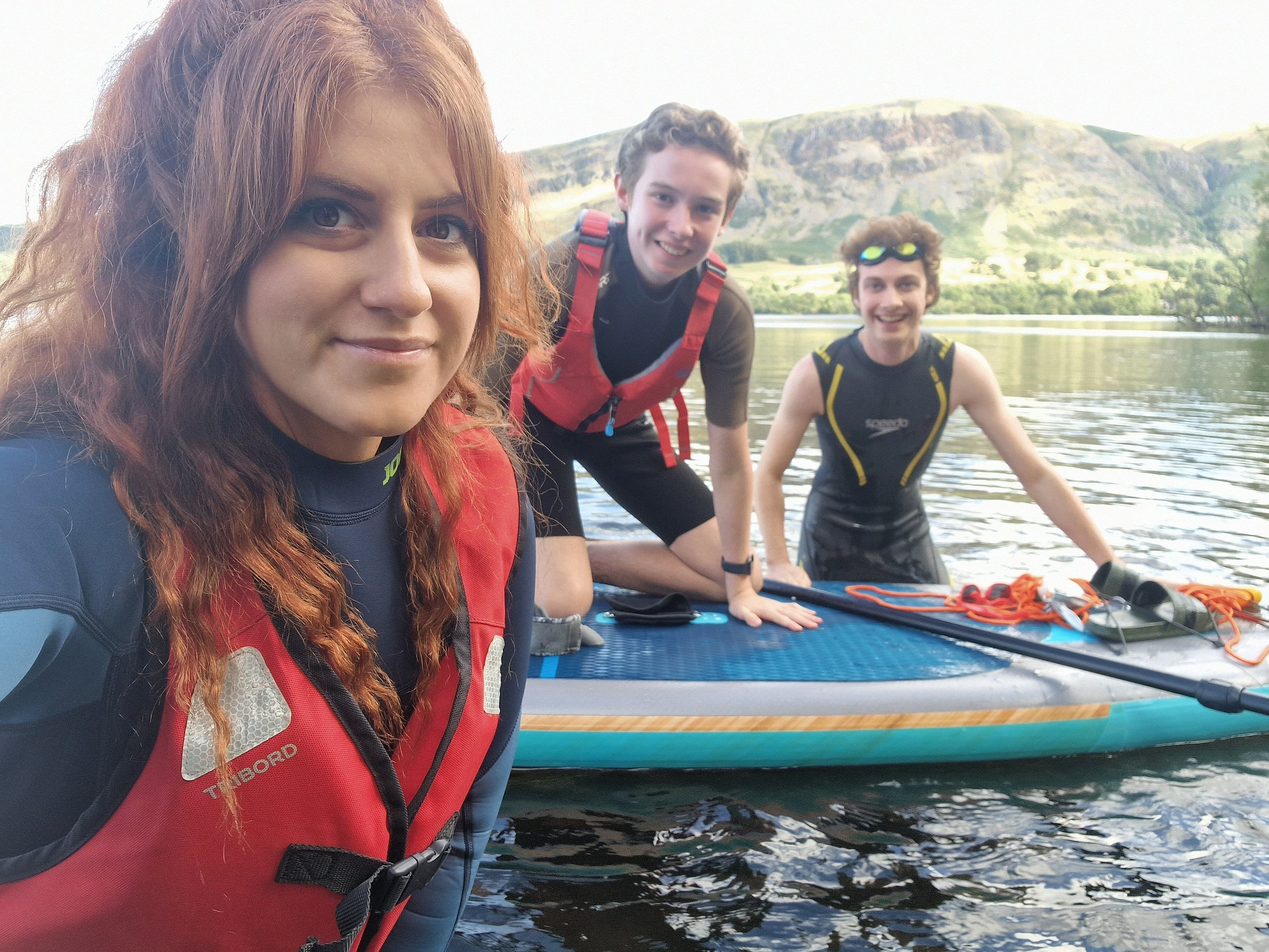
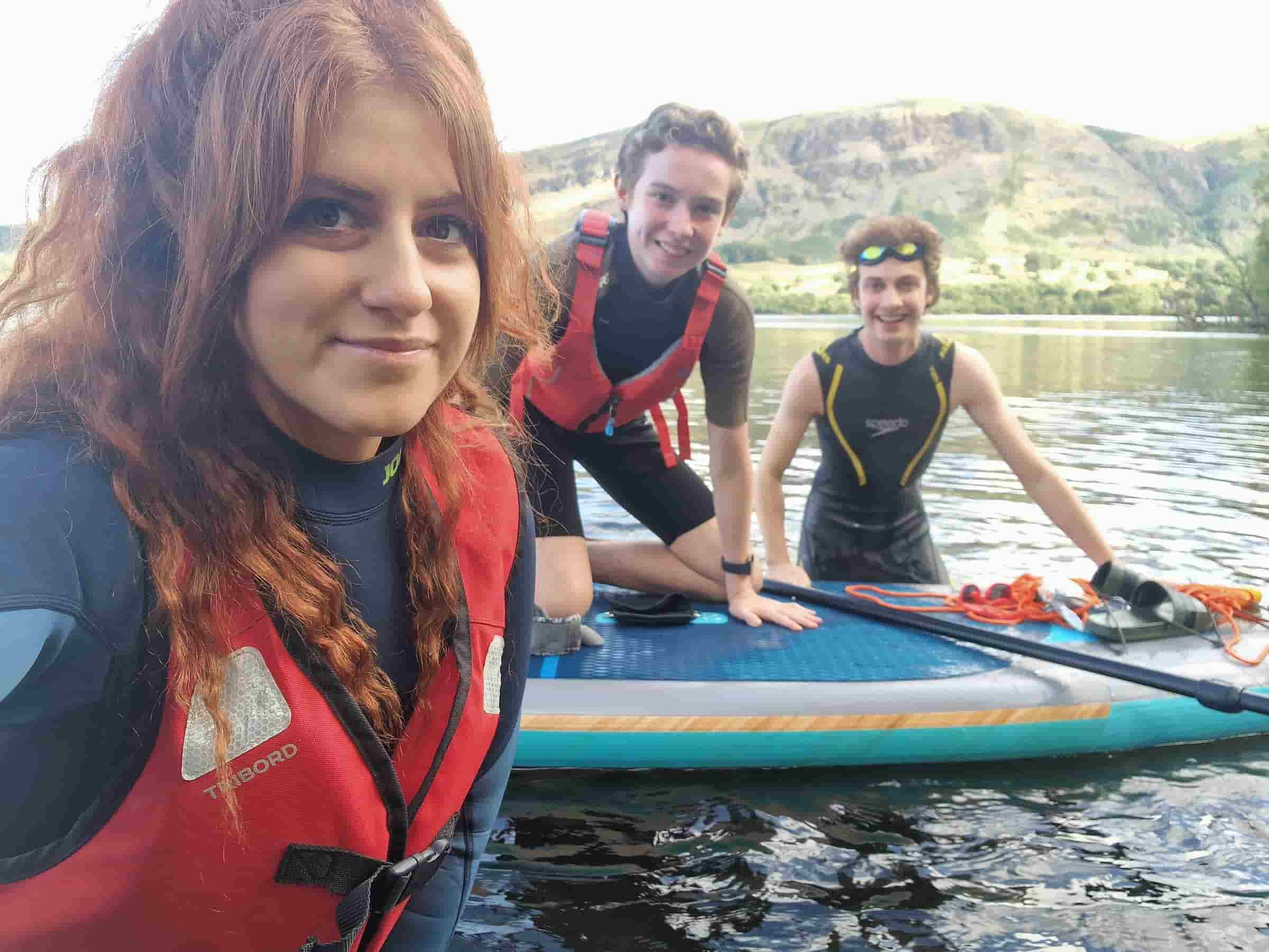
week5 activity

diff --git a/wwr/contact.html b/wwr/contact.html
@@ -67,26 +67,27 @@
 
                     <p>What is the purpose of your message?</p>
 
-                    <label>
-                        <input type="radio" name="purpose" value="general">
+                    <label for="general">
+                        <input type="radio" id="general" name="purpose" value="general">
                         General Inquiry
                     </label>
 
-                    <label>
-                        <input type="radio" name="purpose" value="reservation">
+                    <label for="reservation">
+                        <input type="radio" id="reservation" name="purpose" value="reservation">
                         Reservation Question
                     </label>
 
-                    <label>
-                        <input type="radio" name="purpose" value="suggestion">
+                    <label for="suggestion">
+                        <input type="radio" id="suggestion" name="purpose" value="suggestion">
                         Website Suggestion
                     </label>
+
 
                     <label for="message">Message:</label>
                     <textarea id="message" name="message"></textarea>
 
-                    <label>
-                        <input type="checkbox" name="newsletter">
+                    <label for="newsletter">
+                        <input type="checkbox" id="newsletter" name="newsletter">
                         Please subscribe me to the monthly newsletter
                     </label>
 
